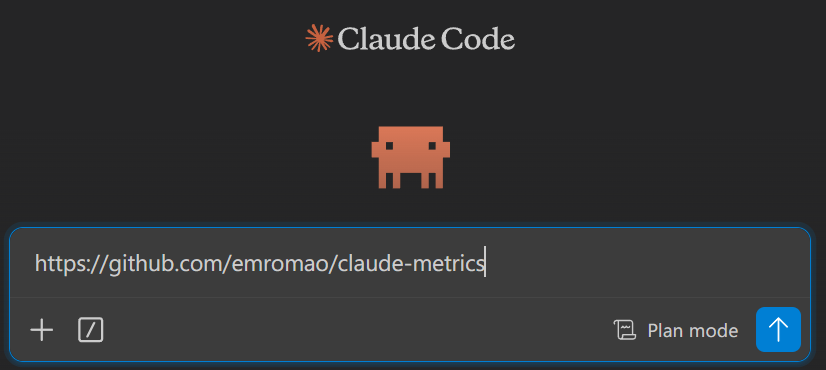
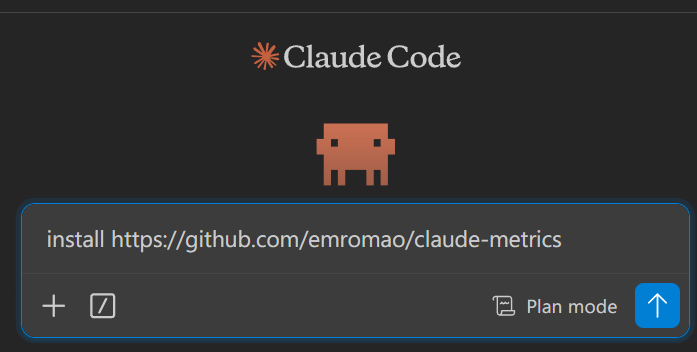
docs: update install screenshot and match casing

Changed region(s): [[0.0, 0.5625, 0.9943, 1.0], [0.3615, 0.0625, 0.6628, 0.2188], [0.4519, 0.3438, 0.5725, 0.5312]]

diff --git a/README.md b/README.md
@@ -7,7 +7,7 @@ Session metrics for Claude Code. See your token usage, costs, and context health
 Paste this in Claude Code and hit enter:
 
 ```text
-Install https://github.com/emromao/claude-metrics
+install https://github.com/emromao/claude-metrics
 ```
 
 ![Quick Install](docs/install.png)
